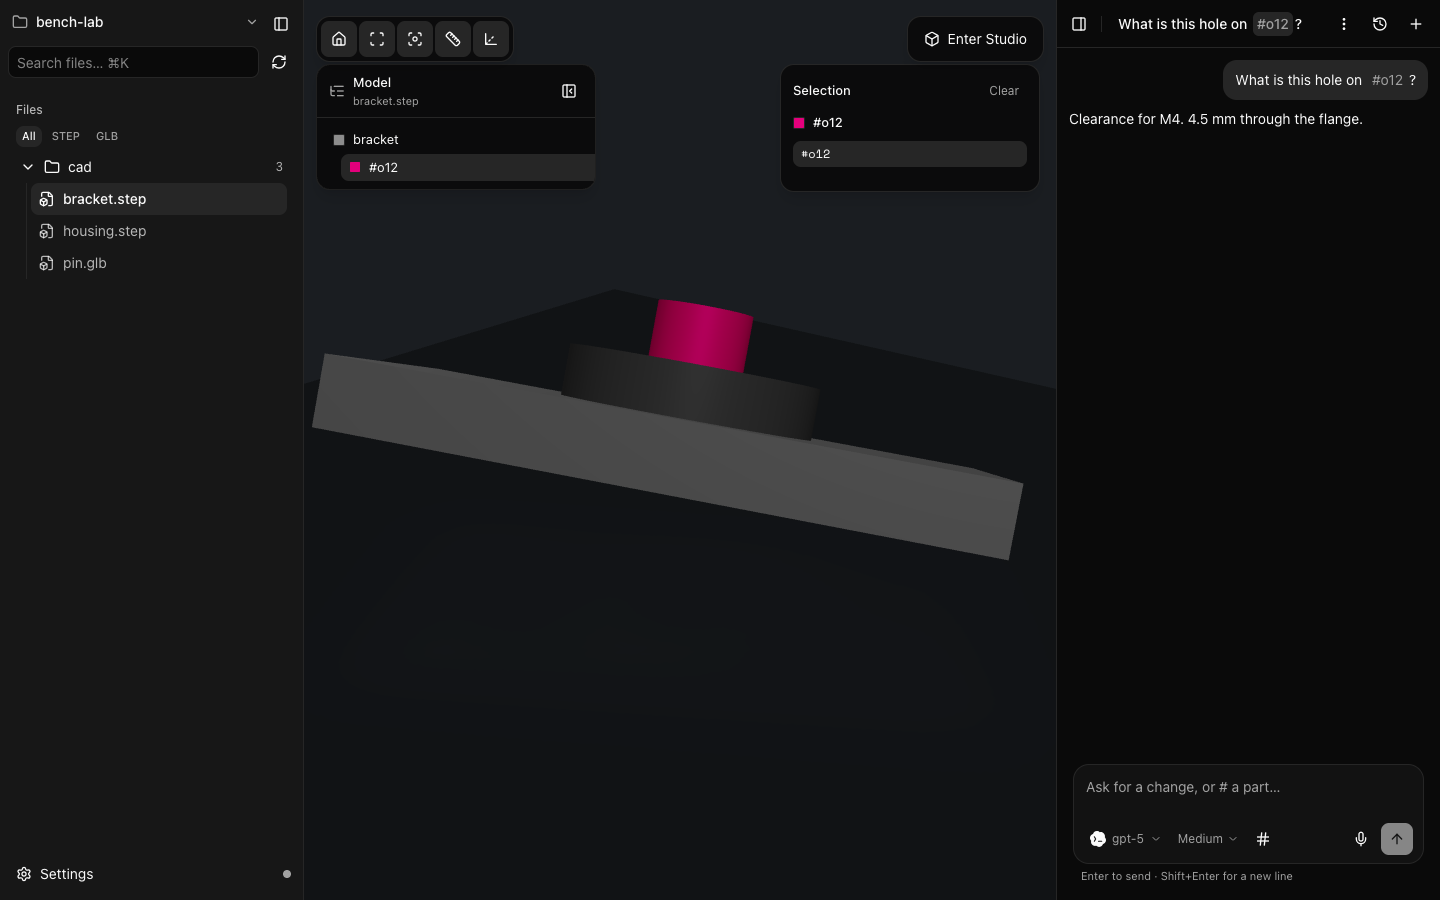
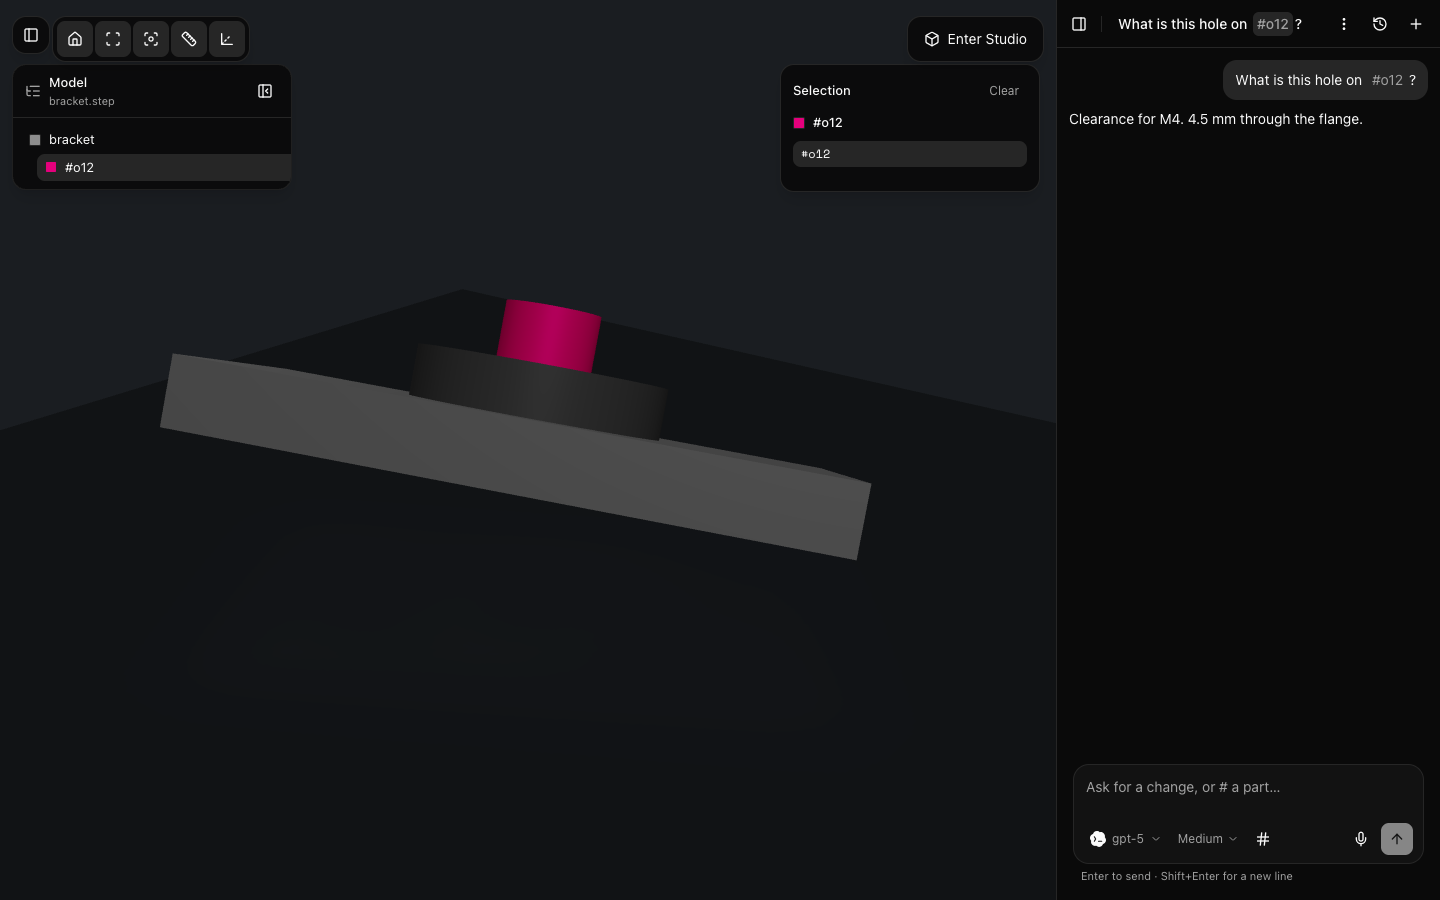
Start the workbench preview with the files rail closed.
The canvas and chat read first on the homepage mock. The rail still opens.

diff --git a/apps/docs/src/components/preview/workbench-preview.tsx b/apps/docs/src/components/preview/workbench-preview.tsx
@@ -78,7 +78,7 @@ function replyFor(text: string, selected: PreviewSel): string {
 }
 
 export function WorkbenchPreview() {
-  const [filesOpen, setFilesOpen] = useState(true);
+  const [filesOpen, setFilesOpen] = useState(false);
   const [chatOpen, setChatOpen] = useState(true);
   const [partsOpen, setPartsOpen] = useState(true);
   const [selected, setSelected] = useState<PreviewSel>("o12");
